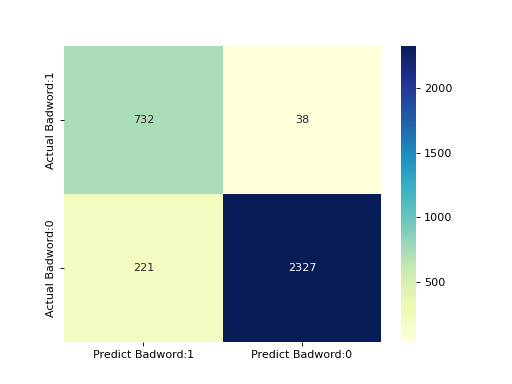
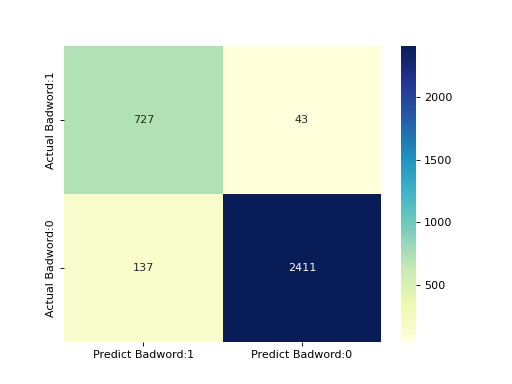
uploaded nlp model v1

diff --git a/train.py b/train.py
@@ -25,9 +25,9 @@ label = data['badword']
 
 max_length = 64
 label_num = 1
-learning_rate = 0.005
-batch_size = 64
-epochs = 20
+learning_rate = 0.01
+batch_size = 128
+epochs = 10
 validation_split = 0.1
 
 token = Tokenizer(num_words=None, filters=r'[^a-zA-Z0-9가-힣ㄱ-ㅎㅏ-ㅣ\u4e00-\u9fff]|(.)\1{2,}', char_level=True)
